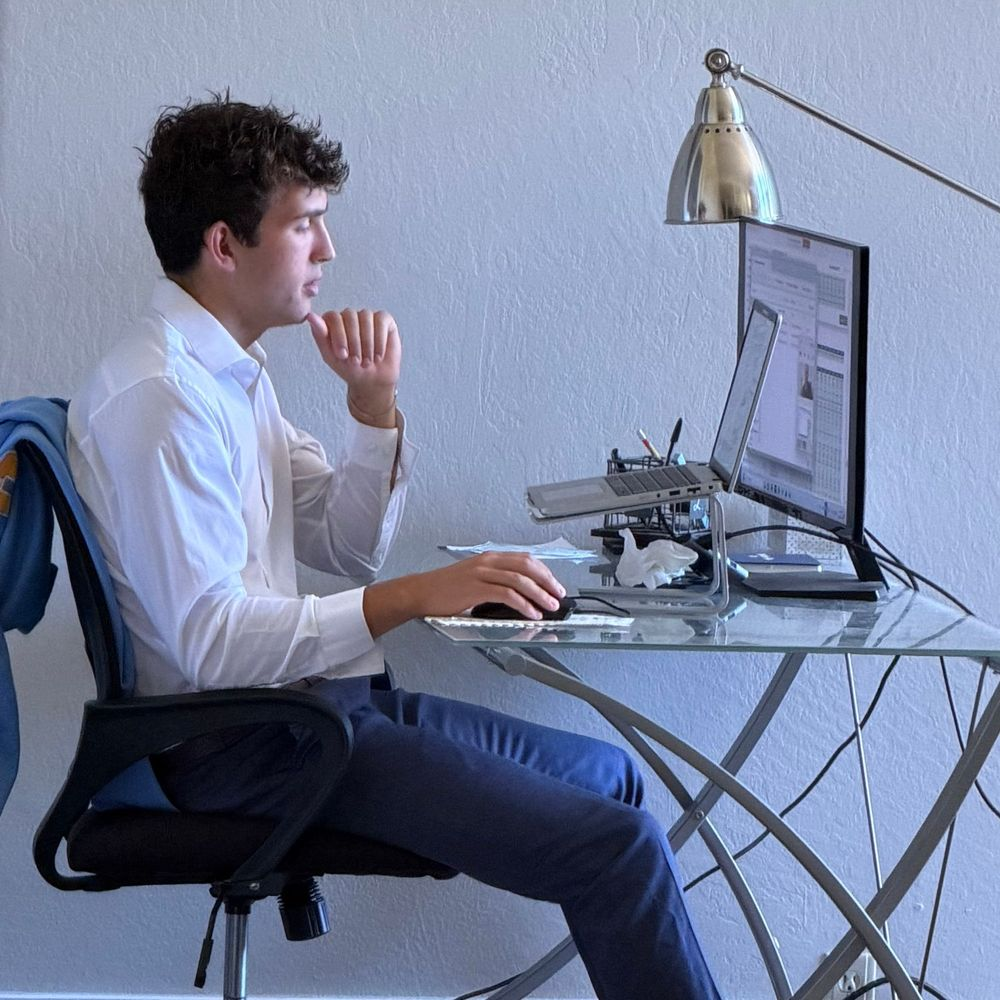
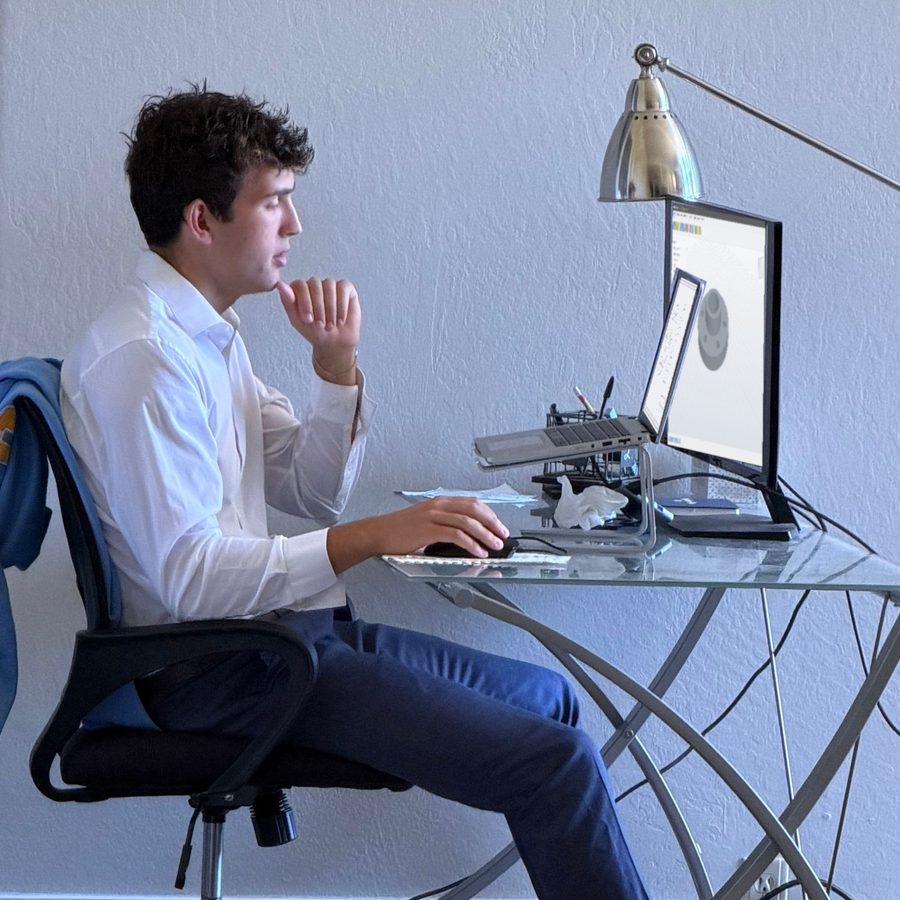
Lead with a drawing; smaller photos lower on the page
- Hero shows a drawing again (img/hero-drawing.svg, captioned as a
  sample until real drawings replace it)
- About moves below Services; the desk and shop photos sit side by
  side at a smaller size
- Desk photo edited so the monitor shows Fusion with a flange model and
  the laptop shows a drawing sheet
- Removes the carbon-fiber wing photo; industries back to a 3-column grid

Claude-Session: https://claude.ai/code/session_01RAZK21DaWacuEgUjVRh4Lo

Changed region(s): [[0.7156, 0.2178, 0.8711, 0.5289]]

diff --git a/index.html b/index.html
@@ -48,8 +48,10 @@
             <a class="btn btn-outline-light" href="#services">Our Services</a>
           </div>
         </div>
-        <figure class="hero-photo">
-          <img src="img/shop-grinding.jpg" alt="Drew Arney grinding a steel part at a workbench vise, sparks flying" width="1000" height="1250" fetchpriority="high" />
+        <figure class="hero-figure">
+          <!-- swap in your own drawing: replace img/hero-drawing.svg (or point this at a PNG/JPG) -->
+          <img src="img/hero-drawing.svg" alt="Sample drawing of a mounting flange with dimensions and GD&amp;T callouts" width="600" height="440" />
+          <figcaption>Sample drawing</figcaption>
         </figure>
       </section>
     </div>
@@ -62,30 +64,6 @@
         <div class="fact"><strong>Your CAD</strong><span>Fusion, or work in your seat</span></div>
       </div>
     </div>
-
-    <section id="about" class="section">
-      <div class="split split-photo">
-        <figure class="photo">
-          <img src="img/cad-desk.jpg" alt="Drew Arney working on a CAD model at his desk" width="1000" height="1000" loading="lazy" />
-        </figure>
-        <div>
-          <p class="kicker">About SLOTD</p>
-          <h2>Drafting support for shops that would rather be cutting chips.</h2>
-          <p class="body-lg">San Luis Obispo Technical Drafting is a contract drafting and design service run by mechanical engineering student Drew Arney, working with shops and hardware teams across the country.</p>
-          <p>We build 3D models and production drawings from whatever you have: a sketch, a worn-out part, a photo, or a print that's been faxed one too many times. You get clean, machinist-ready prints without tying up your programmers or engineers.</p>
-        </div>
-      </div>
-
-      <div class="process">
-        <h3>How it works</h3>
-        <ol class="steps">
-          <li><strong>Send what you have</strong><span>A sketch, photo, sample part, old print, or STEP file.</span></li>
-          <li><strong>Get a fixed quote</strong><span>A set price and a delivery date before any work starts.</span></li>
-          <li><strong>Review a draft</strong><span>Mark it up; revisions are handled before anything is final.</span></li>
-          <li><strong>Receive your files</strong><span>Native CAD, STEP, and a PDF drawing set, ready for the floor.</span></li>
-        </ol>
-      </div>
-    </section>
 
     <section id="services" class="section-alt">
       <div class="section">
@@ -104,15 +82,44 @@
       </div>
     </section>
 
-    <section class="section">
-      <div class="section-head">
+    <section id="about" class="section">
+      <div class="split split-photo">
         <div>
-          <p class="kicker">Who it's for</p>
-          <h2>Industries we support</h2>
+          <p class="kicker">About SLOTD</p>
+          <h2>Drafting support for shops that would rather be cutting chips.</h2>
+          <p class="body-lg">San Luis Obispo Technical Drafting is a contract drafting and design service run by mechanical engineering student Drew Arney, working with shops and hardware teams across the country.</p>
+          <p>We build 3D models and production drawings from whatever you have: a sketch, a worn-out part, a photo, or a print that's been faxed one too many times. You get clean, machinist-ready prints without tying up your programmers or engineers.</p>
         </div>
-        <p>If it gets machined, fabricated, or assembled, it needs a print someone can build from.</p>
+        <div class="photo-pair">
+          <figure class="photo">
+            <img src="img/cad-desk.jpg" alt="Drew Arney working on a CAD model at his desk" width="900" height="900" loading="lazy" />
+          </figure>
+          <figure class="photo photo-shop">
+            <img src="img/shop-grinding.jpg" alt="Drew Arney grinding a steel part at a workbench vise" width="1000" height="1250" loading="lazy" />
+          </figure>
+        </div>
       </div>
-      <div class="split split-industries">
+
+      <div class="process">
+        <h3>How it works</h3>
+        <ol class="steps">
+        <li><strong>Send what you have</strong><span>A sketch, photo, sample part, old print, or STEP file.</span></li>
+        <li><strong>Get a fixed quote</strong><span>A set price and a delivery date before any work starts.</span></li>
+        <li><strong>Review a draft</strong><span>Mark it up; revisions are handled before anything is final.</span></li>
+        <li><strong>Receive your files</strong><span>Native CAD, STEP, and a PDF drawing set, ready for the floor.</span></li>
+        </ol>
+      </div>
+    </section>
+
+    <section class="section-alt">
+      <div class="section">
+        <div class="section-head">
+          <div>
+            <p class="kicker">Who it's for</p>
+            <h2>Industries we support</h2>
+          </div>
+          <p>If it gets machined, fabricated, or assembled, it needs a print someone can build from.</p>
+        </div>
         <ul class="tiles">
           <li>Job Shops &amp; Machine Shops</li>
           <li>Aerospace &amp; Propulsion</li>
@@ -121,9 +128,6 @@
           <li>Ag &amp; Wine Equipment</li>
           <li>Startups &amp; Prototyping</li>
         </ul>
-        <figure class="photo">
-          <img src="img/carbon-part.jpg" alt="Carbon-fiber flying-wing structure mounted on a test fixture in an engineering lab" width="1000" height="1000" loading="lazy" />
-        </figure>
       </div>
     </section>
 

diff --git a/styles.css b/styles.css
@@ -112,11 +112,12 @@ h1 {
 }
 .lede { font-size: clamp(18px, 1.8vw, 20px); color: #c6ccd2; max-width: 46ch; margin: 0 0 32px; }
 .hero-actions { display: flex; gap: 12px; flex-wrap: wrap; }
-.hero-photo { margin: 0; justify-self: end; width: 100%; max-width: 480px; }
-.hero-photo img {
-  display: block; width: 100%; height: auto; aspect-ratio: 4 / 5; object-fit: cover;
-  border-radius: 4px; box-shadow: 0 24px 60px rgba(0, 0, 0, .45);
+.hero-figure {
+  margin: 0; padding: clamp(14px, 2vw, 24px);
+  border: 1px solid rgba(255, 255, 255, .12); background: rgba(10, 12, 14, .35); border-radius: 4px;
 }
+.hero-figure img { display: block; width: 100%; height: auto; }
+.hero-figure figcaption { margin-top: 10px; font-size: 12.5px; color: var(--steel); letter-spacing: .08em; text-transform: uppercase; }
 
 /* ── facts strip ── */
 .facts { background: var(--white); border-bottom: 1px solid var(--line); }
@@ -153,6 +154,8 @@ h2 {
 /* photos */
 .photo { margin: 0; }
 .photo img { display: block; width: 100%; height: auto; aspect-ratio: 1; object-fit: cover; border-radius: 4px; }
+.photo-shop img { object-position: 50% 20%; }
+.photo-pair { display: grid; grid-template-columns: 1fr 1fr; gap: 14px; max-width: 460px; justify-self: end; width: 100%; }
 
 /* about + process */
 .split { display: grid; grid-template-columns: minmax(0, 1fr) minmax(0, 1fr); gap: clamp(36px, 6vw, 80px); align-items: center; }
@@ -189,12 +192,10 @@ h2 {
 .cad-note strong { color: var(--white); font-weight: 600; }
 
 /* industries */
-.split-industries { align-items: stretch; }
-.split-industries .photo img { height: 100%; }
-.tiles { list-style: none; margin: 0; padding: 0; display: grid; grid-template-columns: repeat(2, 1fr); grid-auto-rows: 1fr; border-top: 1px solid var(--line); border-left: 1px solid var(--line); }
+.tiles { list-style: none; margin: 0; padding: 0; display: grid; grid-template-columns: repeat(3, 1fr); border-top: 1px solid var(--line); border-left: 1px solid var(--line); }
 .tiles li {
   display: flex; align-items: center; gap: 14px; min-height: 84px; padding: 20px 24px;
-  border-right: 1px solid var(--line); border-bottom: 1px solid var(--line);
+  border-right: 1px solid var(--line); border-bottom: 1px solid var(--line); background: var(--white);
   font-family: var(--display); font-weight: 600; font-size: 20px; color: var(--ink); text-transform: uppercase; letter-spacing: .02em;
 }
 .tiles li::before { content: ""; width: 8px; height: 8px; border: 1.5px solid var(--ink-3); transform: rotate(45deg); flex: none; }
@@ -288,8 +289,9 @@ dialog#lightbox img { display: block; max-width: 96vw; max-height: 94vh; }
 }
 @media (max-width: 900px) {
   .hero { grid-template-columns: 1fr; }
-  .hero-photo { justify-self: start; max-width: 520px; }
-  .hero-photo img { aspect-ratio: 4 / 3; object-position: 50% 35%; }
+  .hero-figure { max-width: 620px; }
+  .photo-pair { justify-self: start; }
+  .tiles { grid-template-columns: repeat(2, 1fr); }
   .steps { grid-template-columns: repeat(2, minmax(0, 1fr)); }
   .facts-in { grid-template-columns: repeat(2, 1fr); }
   .fact:nth-child(3) { border-left: 0; padding-left: 0; }
